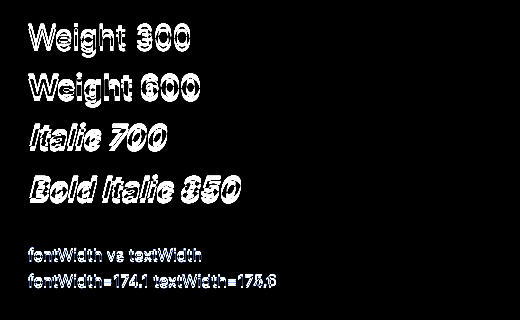
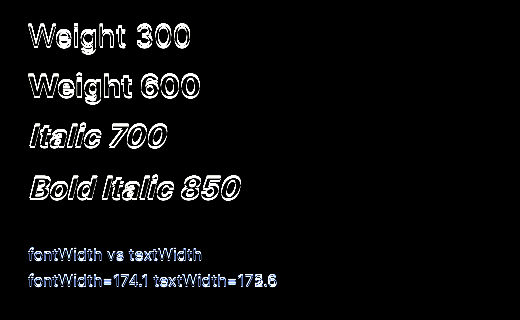
double-layout ffi fix

diff --git a/apps/deno-notebooks/tools/p5gpu_text/ffi.ts b/apps/deno-notebooks/tools/p5gpu_text/ffi.ts
@@ -190,6 +190,7 @@ function parseLayoutResponse(jsonText: string): TextLayoutResult {
 export class NativeTextEngine {
   private readonly _lib: TextEngineLibrary;
   private _enginePtr: Deno.PointerValue;
+  private _layoutBuffer: Uint8Array = new Uint8Array(65536);
 
   constructor() {
     this._lib = getLibrary();
@@ -221,26 +222,30 @@ export class NativeTextEngine {
   }
 
   layoutText(req: TextLayoutRequest): TextLayoutResult {
-    if (!this._enginePtr) {
-      return {
-        glyphs: [],
-        tightWidth: 0,
-        fontWidth: 0,
-        ascent: 0,
-        descent: 0,
-        fontAscent: 0,
-        fontDescent: 0,
-        fontCapHeight: 0,
-        firstBaseline: 0,
-        totalHeight: 0,
-        lineCount: 0,
-      };
-    }
+    const emptyResult: TextLayoutResult = {
+      glyphs: [],
+      tightWidth: 0,
+      fontWidth: 0,
+      ascent: 0,
+      descent: 0,
+      fontAscent: 0,
+      fontDescent: 0,
+      fontCapHeight: 0,
+      firstBaseline: 0,
+      totalHeight: 0,
+      lineCount: 0,
+    };
+    if (!this._enginePtr) return emptyResult;
 
     const text = encodeString(req.text);
     const family = encodeString(req.family);
     const axesJson = encodeString(JSON.stringify(req.axes));
+    const weight = Math.max(1, Math.min(1000, Math.round(req.weight)));
+    const width = req.width ?? -1;
+    const height = req.height ?? -1;
 
+    // First call: pass the pre-allocated buffer directly.
+    const outPtr = Deno.UnsafePointer.of(this._layoutBuffer);
     const needed = this._lib.symbols.text_engine_layout_json(
       this._enginePtr,
       text.ptr,
@@ -249,37 +254,30 @@ export class NativeTextEngine {
       family.len,
       req.fontSize,
       req.lineHeight,
-      req.width ?? -1,
-      req.height ?? -1,
+      width,
+      height,
       req.alignH,
       req.wrapMode,
-      Math.max(1, Math.min(1000, Math.round(req.weight))),
+      weight,
       req.style,
       req.axisQuantization,
       axesJson.ptr,
       axesJson.len,
-      null,
-      0,
+      outPtr,
+      this._layoutBuffer.length,
     );
 
-    if (needed === 0) {
-      return {
-        glyphs: [],
-        tightWidth: 0,
-        fontWidth: 0,
-        ascent: 0,
-        descent: 0,
-        fontAscent: 0,
-        fontDescent: 0,
-        fontCapHeight: 0,
-        firstBaseline: 0,
-        totalHeight: 0,
-        lineCount: 0,
-      };
+    if (needed === 0) return emptyResult;
+
+    // Common case: output fit in the pre-allocated buffer (single FFI call).
+    if (needed <= this._layoutBuffer.length) {
+      const jsonText = textDecoder.decode(this._layoutBuffer.subarray(0, needed));
+      return parseLayoutResponse(jsonText);
     }
 
-    const out = new Uint8Array(needed);
-    const outPtr = Deno.UnsafePointer.of(out);
+    // Overflow: grow the buffer and make one more call.
+    this._layoutBuffer = new Uint8Array(needed);
+    const grownPtr = Deno.UnsafePointer.of(this._layoutBuffer);
     const written = this._lib.symbols.text_engine_layout_json(
       this._enginePtr,
       text.ptr,
@@ -288,20 +286,20 @@ export class NativeTextEngine {
       family.len,
       req.fontSize,
       req.lineHeight,
-      req.width ?? -1,
-      req.height ?? -1,
+      width,
+      height,
       req.alignH,
       req.wrapMode,
-      Math.max(1, Math.min(1000, Math.round(req.weight))),
+      weight,
       req.style,
       req.axisQuantization,
       axesJson.ptr,
       axesJson.len,
-      outPtr,
-      out.length,
+      grownPtr,
+      this._layoutBuffer.length,
     );
 
-    const jsonText = textDecoder.decode(out.subarray(0, written));
+    const jsonText = textDecoder.decode(this._layoutBuffer.subarray(0, written));
     return parseLayoutResponse(jsonText);
   }
 

diff --git a/apps/deno-notebooks/native/text_engine/src/lib.rs b/apps/deno-notebooks/native/text_engine/src/lib.rs
@@ -70,6 +70,8 @@ pub struct TextEngine {
     buffer: Buffer,
     swash_cache: SwashCache,
     scale_context: swash::scale::ScaleContext,
+    outline_scale_context: swash::scale::ScaleContext,
+    outline_bounds_cache: HashMap<GlyphOutlineBoundsKey, Option<(f32, f32)>>,
     glyph_records: HashMap<u64, GlyphRasterRecord>,
     axis_image_cache: HashMap<u64, RasterizedMask>,
 }
@@ -89,6 +91,8 @@ impl TextEngine {
             buffer,
             swash_cache: SwashCache::new(),
             scale_context: swash::scale::ScaleContext::new(),
+            outline_scale_context: swash::scale::ScaleContext::new(),
+            outline_bounds_cache: HashMap::new(),
             glyph_records: HashMap::new(),
             axis_image_cache: HashMap::new(),
         }
@@ -198,8 +202,13 @@ impl TextEngine {
         let mut font_descent = 0.0f32;
         let mut font_cap_height = 0.0f32;
         let mut have_font_metrics = false;
-        let mut outline_scale_context = swash::scale::ScaleContext::new();
-        let mut outline_bounds_cache = HashMap::<GlyphOutlineBoundsKey, Option<(f32, f32)>>::new();
+        // Take the outline scale context and bounds cache out of self to avoid
+        // borrow conflicts with self.measure_glyph_outline_x_bounds().
+        let mut outline_scale_context = std::mem::replace(
+            &mut self.outline_scale_context,
+            swash::scale::ScaleContext::new(),
+        );
+        let mut outline_bounds_cache = std::mem::take(&mut self.outline_bounds_cache);
 
         for run in self.buffer.layout_runs() {
             line_count += 1;
@@ -357,6 +366,10 @@ impl TextEngine {
                 tight_width = tight_width.max((line_max_x - line_min_x).max(0.0));
             }
         }
+
+        // Put the outline scale context and bounds cache back into self.
+        self.outline_scale_context = outline_scale_context;
+        self.outline_bounds_cache = outline_bounds_cache;
 
         self.glyph_records.clear();
         for (key, record) in pending_records {
